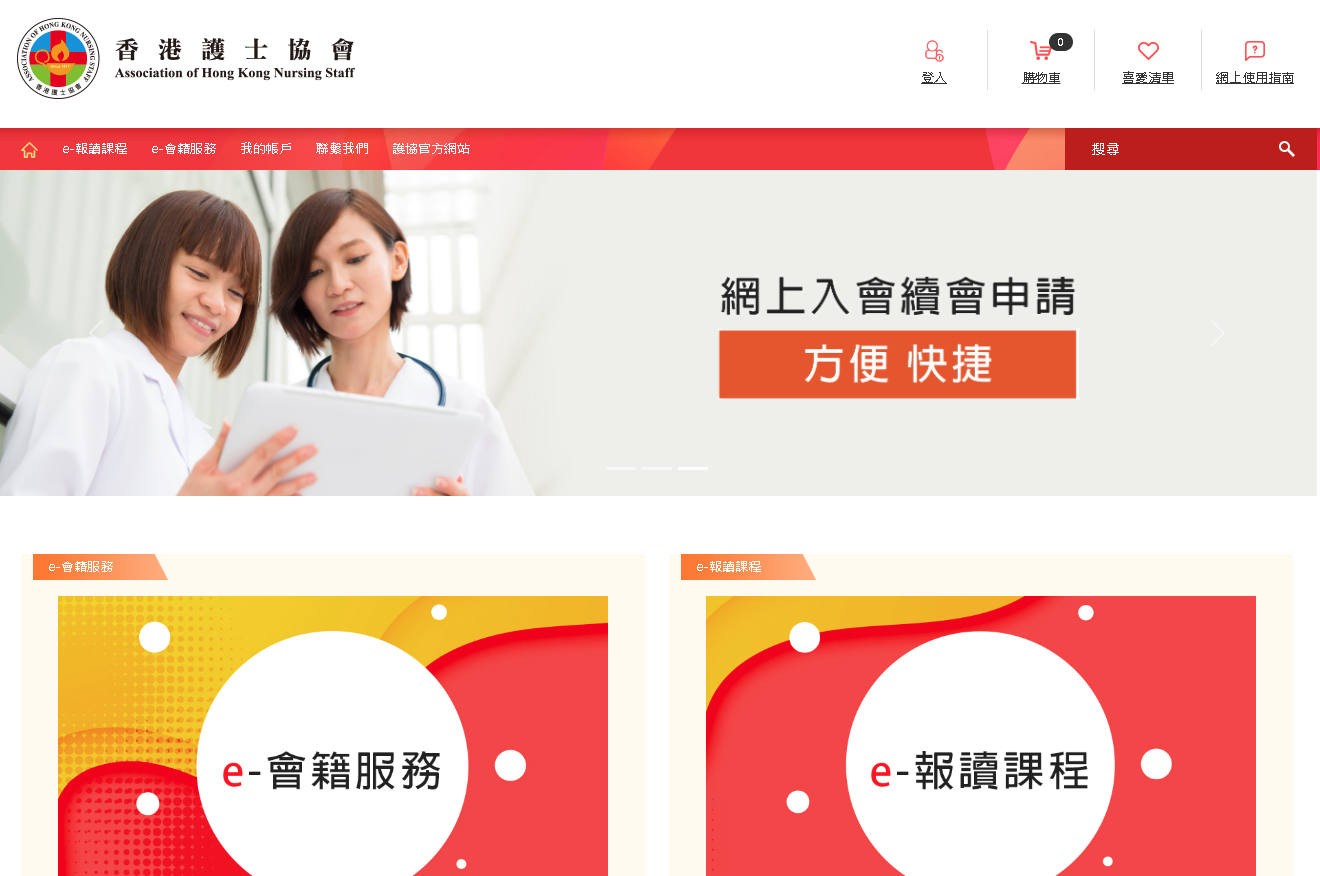
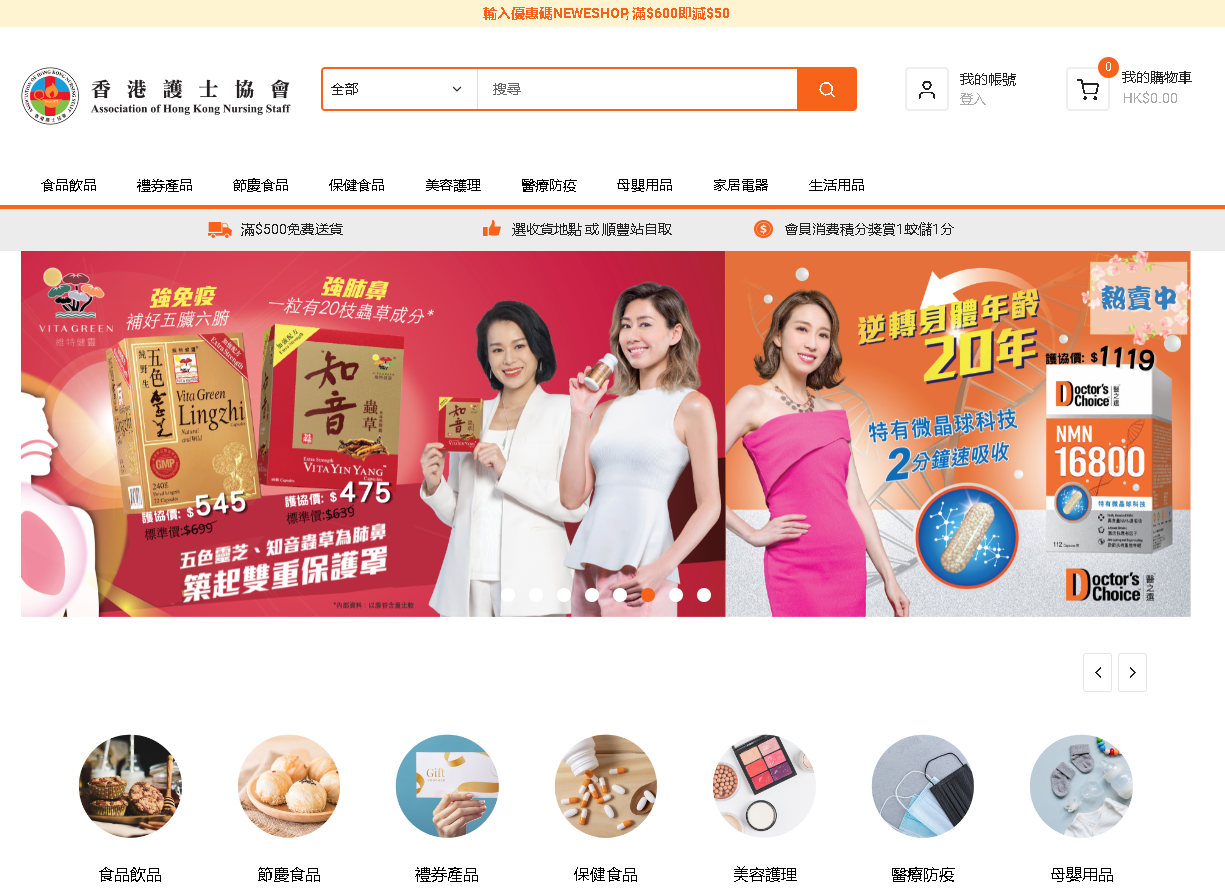
updated ahkns info

diff --git a/assets/js/main.js b/assets/js/main.js
@@ -237,7 +237,7 @@ $(function () {
 	images['elpms'] = ['front.PNG', 'main_blurred.png', 'main_manager_blurred.png', 'search_blurred.png', 'complaint_blurred.png', 'users_manager_blurred.png'];
 	images['sensai'] = ['product.PNG', 'ss_main.jpg', '2.gif', '3.gif'];
 	images['urbanp'] = ['front.PNG', 'gallery.PNG'];
-	images['ahkns'] = ['front.PNG', 'products.PNG'];
+	images['ahkns'] = ['front.PNG', 'products.PNG', 'product.PNG'];
 	images['sb'] = ['landing.jpg', 'departments.jpg', 'news.jpg', 'organisation.jpg', 'profile.jpg', 'projects.jpg'];
 	images['stripe'] = ['past.PNG','scheduled.PNG','new.PNG'];
 
@@ -250,7 +250,7 @@ $(function () {
 	titles['elpms'] = ['Login', 'Front page', 'Main management', 'Search', 'Complaint', 'Users management'];
 	titles['sensai'] = ['Product gallery', 'Front Page', 'Magnifier', 'Mapping between image area and table content'];
 	titles['urbanp'] = ['Front page', 'Image carousel'];
-	titles['ahkns'] = ['Front page', 'Product Catalog'];
+	titles['ahkns'] = ['Front page', 'Product Catalog', 'Product Detail'];
 	titles['sb'] = ['Landing', 'Departments', 'News', 'Organisation', 'Profile', 'Projects'];
 	titles['stripe'] = ['Past capture','Scheduled capture','New customer'];
 
@@ -424,8 +424,8 @@ $(function () {
 			'large': large_paths['ahkns'],
 			'img_title': titles['ahkns'],
 			'button_list': [{
-				'title': 'Live',
-				'url': 'https://eahkns.nurse.org.hk/',
+				'title': 'Live (for testing)',
+				'url': 'https://eshop-test.nurse.org.hk/',
 				'new_window': true
 			} /*, {
 				'title': 'Interactive Prototype',
